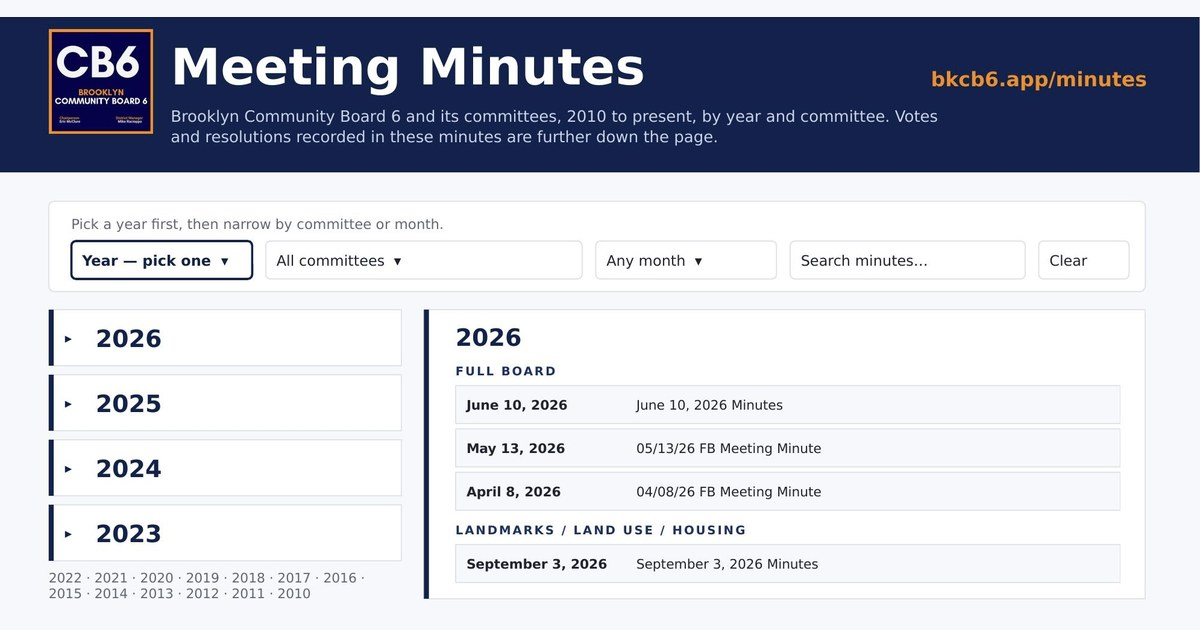
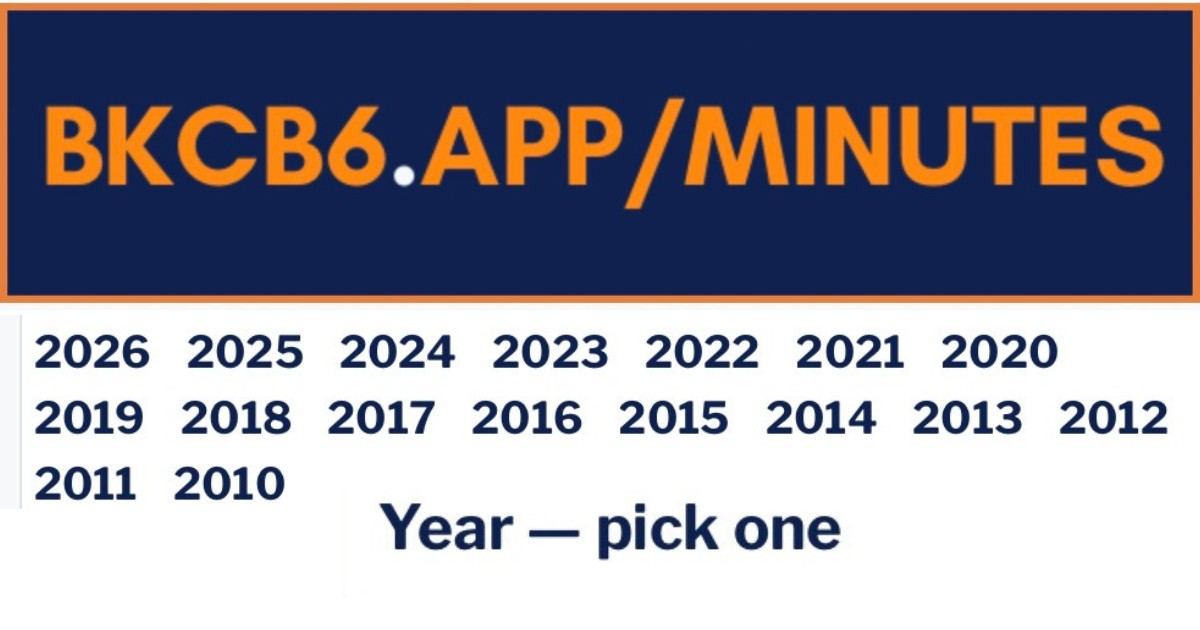
minutes: new og image; sw cb6-v1536

diff --git a/sw.js b/sw.js
@@ -1,5 +1,5 @@
 // CB6 & Beyond — Service Worker
-const CACHE_VERSION = 'cb6-v1535';
+const CACHE_VERSION = 'cb6-v1536';
 const CORE_ASSETS = [
   '/',
   '/index.html',
